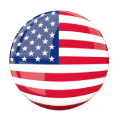
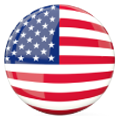
se agregan transiciones, transformaciones, efectos y media queries.

diff --git a/index.html b/index.html
@@ -12,10 +12,7 @@
 
     <!-- vínculo con mi archivo de estilos css -->
     <link rel="stylesheet" href="../css/estilos.css">
-        
-    <!-- vínculo con javascript del guión que titila -->
-    <script src="../script/script.js" type="text/javascript"></script>
-
+    
     <!-- seteo del favicon -->
     <link rel="icon" type="image/x-icon" href="../img/logo.png">
 
@@ -74,18 +71,34 @@
                     <div class="row">
                         <div class="col">
                             <img src="./img/fotoperfil.png" class="fotoPerfil" alt="imagen de inicio">
-                <div class="textoPrincipal">
-                    <div>
-                        <p><img src="./img/arg.png" class="banderas"></p>
-                        <p class="numerosDeLinea">1 2 3 4 5 6 7 8 9 10 11 12 13 14 15 16 17</p>
-                        <p class="parrafoIzquierdo">¡Hola! quiero contarte que soy una persona muy inquieta, que siempre está buscando algo nuevo que aprender. Desde hace más de 20 años que indago y surfeo el mundo IT, realizando mis propios proyectos personales y con la mira siempre puesta en ser autosuficiente. Desde hace un tiempo decidí profesionalizar todo ese conocimiento y embarcarme en este viaje de convertir eso que era un hobby en mi vida y sustento diario. En este portafolio podrán encontrar todos mis proyectos e inquietudes. Siéntanse libres de contactarme cuando lo deseen.</p>
-                    </div>
-                    <div>
-                        <p><img src="./img/eeuu.png" class="banderas"></p>
-                        <p class="numerosDeLinea">18 19 20 21 22 23 24 25 26 27 28 29 30 31 32 33</p>
-                        <p class="parrafoDerecho">Hi! I want to tell you that I'm a very restless person, always looking for something new to learn. For more than 20 years, I've been exploring and navigating the IT world, working on my own personal projects and always aiming to be self-sufficient. Recently, I decided to turn all that knowledge into a profession and embark on this journey to make what was once a hobby my daily life and livelihood. In this portfolio, you'll find all my projects and interests. Feel free to contact me whenever you want.</p>
-                    </div>
-                </div>
+                            <div class="container1 textoPrincipal">
+                                <button type="button" id="flip-btn">
+                                    <img src="./img/eeuu.png" id="eeuu" class="banderas">
+                                    <img src="./img/arg.png" id="arg" class="banderas hidden">
+                                </button>
+                                <div class="card">
+                                <div id="back" class="cardBack">
+                                    <p class="numerosDeLinea">1 2 3 4 5 6 7 8 9 10 11 12 13 14 15 16 17</p>
+                                    <p class="parrafoDerecho">Hi! I want to tell you that I'm a very restless person, always looking for something new to learn.<br/><br/> For more than 20 years, I've been exploring and navigating the IT world, working on my own personal projects and always aiming to be self-sufficient.<br/><br/> Recently, I decided to turn all that knowledge into a profession and embark on this journey to make what was once a hobby my daily life and livelihood.<br/><br/> In this portfolio, you'll find all my projects and interests. Feel free to contact me whenever you want.</p>
+                                </div>
+                                <div id="front" class="cardFront">
+                                    <p class="numerosDeLinea">1 2 3 4 5 6 7 8 9 10 11 12 13 14 15 16 17</p>
+                                    <p class="parrafoIzquierdo">¡Hola! quiero contarte que soy una persona muy inquieta, que siempre está buscando algo nuevo que aprender.<br/><br/> Desde hace más de 20 años que indago y surfeo el mundo IT, realizando mis propios proyectos personales y con la mira siempre puesta en ser autosuficiente.<br/><br/> Desde hace un tiempo decidí profesionalizar todo ese conocimiento y embarcarme en este viaje de convertir eso que era un hobby en mi vida y sustento diario.<br/><br/> En este portafolio podrán encontrar todos mis proyectos e inquietudes. Siéntanse libres de contactarme cuando lo deseen.</p>
+                                </div>
+                                </div>
+                            </div>
+                            <!-- <div class="textoPrincipal">
+                                <div>
+                                    <p><img src="./img/arg.png" class="banderas"></p>
+                                    <p class="numerosDeLinea">1 2 3 4 5 6 7 8 9 10 11 12 13 14 15 16 17</p>
+                                    <p class="parrafoIzquierdo">¡Hola! quiero contarte que soy una persona muy inquieta, que siempre está buscando algo nuevo que aprender. Desde hace más de 20 años que indago y surfeo el mundo IT, realizando mis propios proyectos personales y con la mira siempre puesta en ser autosuficiente. Desde hace un tiempo decidí profesionalizar todo ese conocimiento y embarcarme en este viaje de convertir eso que era un hobby en mi vida y sustento diario. En este portafolio podrán encontrar todos mis proyectos e inquietudes. Siéntanse libres de contactarme cuando lo deseen.</p>
+                                </div>
+                                <div>
+                                    <p><img src="./img/eeuu.png" class="banderas"></p>
+                                    <p class="numerosDeLinea">18 19 20 21 22 23 24 25 26 27 28 29 30 31 32 33</p>
+                                    <p class="parrafoDerecho">Hi! I want to tell you that I'm a very restless person, always looking for something new to learn. For more than 20 years, I've been exploring and navigating the IT world, working on my own personal projects and always aiming to be self-sufficient. Recently, I decided to turn all that knowledge into a profession and embark on this journey to make what was once a hobby my daily life and livelihood. In this portfolio, you'll find all my projects and interests. Feel free to contact me whenever you want.</p>
+                                </div>
+                            </div> -->
                         </div>
                     </div>
                 </div>
@@ -102,9 +115,12 @@
                 </div>
             </div>
         </footer>
-    
-        <!-- vinculo con CDN de scripts de Bootstrap-->
-        <script src="https://cdn.jsdelivr.net/npm/bootstrap@5.3.0-alpha3/dist/js/bootstrap.bundle.min.js" integrity="sha384-ENjdO4Dr2bkBIFxQpeoTz1HIcje39Wm4jDKdf19U8gI4ddQ3GYNS7NTKfAdVQSZe" crossorigin="anonymous"></script>
+
+    <!-- vinculo con CDN de scripts de Bootstrap-->
+    <script src="https://cdn.jsdelivr.net/npm/bootstrap@5.3.0-alpha3/dist/js/bootstrap.bundle.min.js" integrity="sha384-ENjdO4Dr2bkBIFxQpeoTz1HIcje39Wm4jDKdf19U8gI4ddQ3GYNS7NTKfAdVQSZe" crossorigin="anonymous"></script>
+
+    <!-- vínculo con javascript del guión que titila -->
+    <script src="../script/script.js" type="text/javascript"></script>
 
 </body>
 </html>

diff --git a/css/estilos.css b/css/estilos.css
@@ -77,12 +77,28 @@ body {
 }
 
 .fotoPerfil {
+    transition: all 1.2s;
+    transform: scale(1.0);
     width: 400px;
     margin-bottom: 30px;
 }
 
+.fotoPerfil:hover {
+    transition: all 0.2s;
+    transform: scale(1.1);
+    filter:brightness(1.15);
+}
+
 .banderas {
     width: 50px;
+    border: solid var(--color-body) 5px;
+    border-radius: 50%;
+}
+
+.banderas:hover {
+    transition: all 0.2s;
+    transform: scale(1.15);
+    filter:brightness(1.15);
 }
 
 header p {
@@ -139,8 +155,6 @@ header p {
     text-align: center;
     width: 600px;
     box-sizing: border-box;
-    /* border: 2px solid white; */
-    /* padding: 10px 0px; */
 }
 
 .mail p {
@@ -149,24 +163,21 @@ header p {
 
 div.textoPrincipal div {
     display: inline-flex;
-    margin: 20px 0px;
 }
 
 .numerosDeLinea {
-    width: 40px;
+    width: 60px;
     text-align: right;
     color: var(--texto-color-claro);
-    padding-right: 15px;
+    padding-right: 25px;
 }
 
 p.parrafoIzquierdo {
     text-align: left;
-    width: 550px;
 }
 
 p.parrafoDerecho {
     text-align: left;
-    width: 550px;
 }
 
 .footerContainer {
@@ -239,6 +250,79 @@ fieldset div {
     padding: 10px;
 }
 
+/* Estilos para tarjeta de idiomas que gira en eje Y */
+
+button {
+    background-color: rgba(213, 43, 23, 0);
+    height: 60px;
+    margin-right: 10px;
+    border:none;
+}
+
+.container1 {
+    padding: 20px;
+    display: flex;
+    justify-content: center;
+}
+
+.card {
+    height: 450px;
+    width: 800px;
+    position: relative;
+    background-color: var(--color-contenedor);
+    border: none;
+}
+
+.cardFront,
+.cardBack {
+    /* height: 100%; */
+    padding: 1rem;
+    width: 100%;
+    position: absolute;
+    transition: transform 1.5s ease;
+    -webkit-backface-visibility: hidden;
+    backface-visibility: hidden;
+    background-color: var(--barra-y-footer);
+}
+.cardBack {
+    transform: perspective(1000px) rotateY(180deg);
+}
+
+.cardBack.flipped {
+    transform: perspective(1000px) rotateY(0deg);
+}
+
+.cardFront {
+    transform: perspective(1000px) rotateY(0deg);
+}
+
+.cardFront.flipped {
+    transform: perspective(1000px) rotateY(-180deg);
+}  
+
+.hidden {
+    display: none;
+}
+
+/* Comienzo de los media queries para ajustes específicos */
+
+@media (max-width: 836px) {
+body {
+    font-size: 12px;
+}
+.numerosDeLinea {
+    display: none;
+}
+p.parrafoIzquierdo {
+    width: 90%;
+    padding-left: 15px;
+}
+p.parrafoDerecho {
+    width: 90%;
+    padding-left: 15px;
+}
+}
+
 @media (max-width: 670px) {
 body, .dropdown-item {
     font-size: 9px;
@@ -251,15 +335,10 @@ header p {
     width: 350px;
     margin: 15px 0;
 }
-.numerosDeLinea {
-    display: none;
-}
 p.parrafoIzquierdo {
-    width: 300px;
     padding-left: 15px;
 }
 p.parrafoDerecho {
-    width: 300px;
     padding-left: 15px;
 }
 .mainContainer.contacto {
@@ -286,5 +365,16 @@ fieldset {
 }
 .contenedorIframe {
     margin: 25px 5px;
+}
+}
+
+@media (max-width: 440px) {
+p.parrafoIzquierdo {
+    width: 100%;
+    padding-left: 15px;
+}
+p.parrafoDerecho {
+    width: 100%;
+    padding-left: 15px;
 }
 }

diff --git a/script/script.js b/script/script.js
@@ -2,11 +2,26 @@ var cursor = true;
 var speed = 220;
 
 setInterval(() => {
-   if(cursor) {
-     document.getElementById('cursor').style.opacity = 0;
-     cursor = false;
-   }else {
-     document.getElementById('cursor').style.opacity = 1;
-     cursor = true;
-   }
+  if(cursor) {
+    document.getElementById('cursor').style.opacity = 0;
+    cursor = false;
+  }else {
+    document.getElementById('cursor').style.opacity = 1;
+    cursor = true;
+  }
 }, speed);
+
+const front = document.getElementById('front')
+const back = document.getElementById('back')
+const btn = document.getElementById('flip-btn')
+const eeuu = document.getElementById('eeuu')
+const arg = document.getElementById('arg')
+
+function handleFlip() {
+  front.classList.toggle('flipped')
+  back.classList.toggle('flipped')
+  eeuu.classList.toggle('hidden')
+  arg.classList.toggle('hidden')
+}
+
+btn.addEventListener('click', handleFlip)
